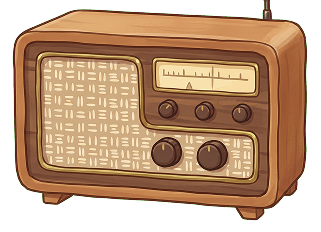
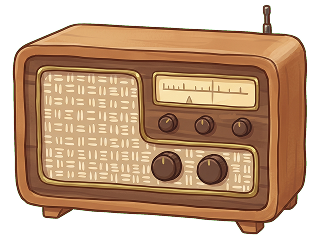
chore: update radio assets

diff --git a/apps/web/src/app/(protected)/home/page.tsx b/apps/web/src/app/(protected)/home/page.tsx
@@ -60,7 +60,7 @@ const foregroundAssets = [
     src: "/assets/room/radio.png",
     alt: "Radio",
     wrapperClassName:
-      "absolute left-[55%] top-[39%] aspect-[294/199] w-[11%] -translate-x-1/2",
+      "absolute left-[55%] top-[39%] aspect-[321/246] w-[11%] -translate-x-1/2",
   },
   {
     src: "/assets/room/book.png",
